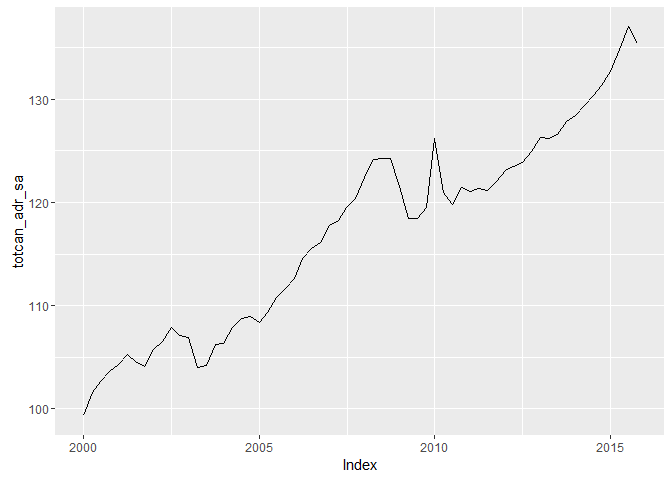
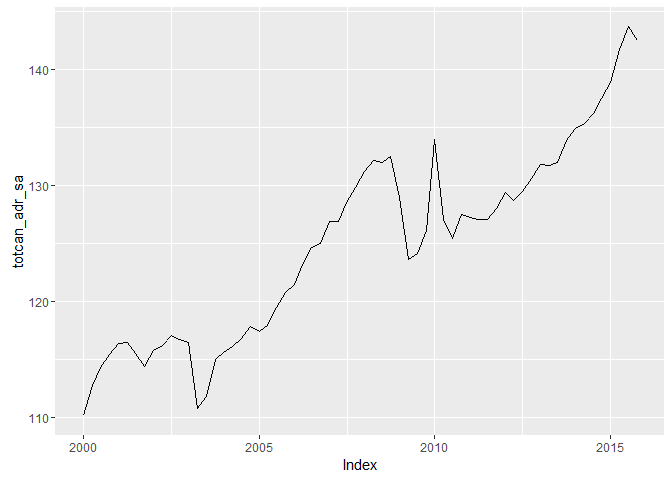
run with updated data for CAN and MEX

diff --git a/scripts/040_load_usmacro.md b/scripts/040_load_usmacro.md
@@ -7,35 +7,9 @@ Setup
 ```r
 library(arlodr, warn.conflicts=FALSE)
 library(xts, warn.conflicts=FALSE)
-```
-
-```
-## Loading required package: zoo
-```
-
-```
-## 
-## Attaching package: 'zoo'
-```
-
-```
-## The following objects are masked from 'package:base':
-## 
-##     as.Date, as.Date.numeric
-```
-
-```r
 library(dplyr, warn.conflicts=FALSE)
 library(tidyr, warn.conflicts=FALSE)
 library(quantmod, warn.conflicts=FALSE)
-```
-
-```
-## Loading required package: TTR
-```
-
-```
-## Version 0.4-0 included new data defaults. See ?getSymbols.
 ```
 
 
@@ -239,18 +213,6 @@ oe_usmac_q <- window(oe_usmac_q, end = end_date)
 ```
 
 ###Load FRED data
-
-```
-##     As of 0.4-0, 'getSymbols' uses env=parent.frame() and
-##  auto.assign=TRUE by default.
-## 
-##  This  behavior  will be  phased out in 0.5-0  when the call  will
-##  default to use auto.assign=FALSE. getOption("getSymbols.env") and 
-##  getOptions("getSymbols.auto.assign") are now checked for alternate defaults
-## 
-##  This message is shown once per session and may be disabled by setting 
-##  options("getSymbols.warning4.0"=FALSE). See ?getSymbols for more details.
-```
 
 ```
 ## [1] "FEDFUNDS" "GDPPOT"   "USRECQ"

diff --git a/scripts/050_create_ushist.md b/scripts/050_create_ushist.md
@@ -323,10 +323,6 @@ autoplot.zoo(window(ushist_q$totcan_demd_sa, start="2000-01-01", end="2015-10-01
 autoplot.zoo(window(ushist_q$upmmex_revpar_sa, start="2000-01-01", end="2015-10-01"))
 ```
 
-```
-## Warning: Removed 3 rows containing missing values (geom_path).
-```
-
 ![](050_create_ushist_files/figure-html/add_ihg_mex_can-3.png)<!-- -->
 
 Adds open close data
